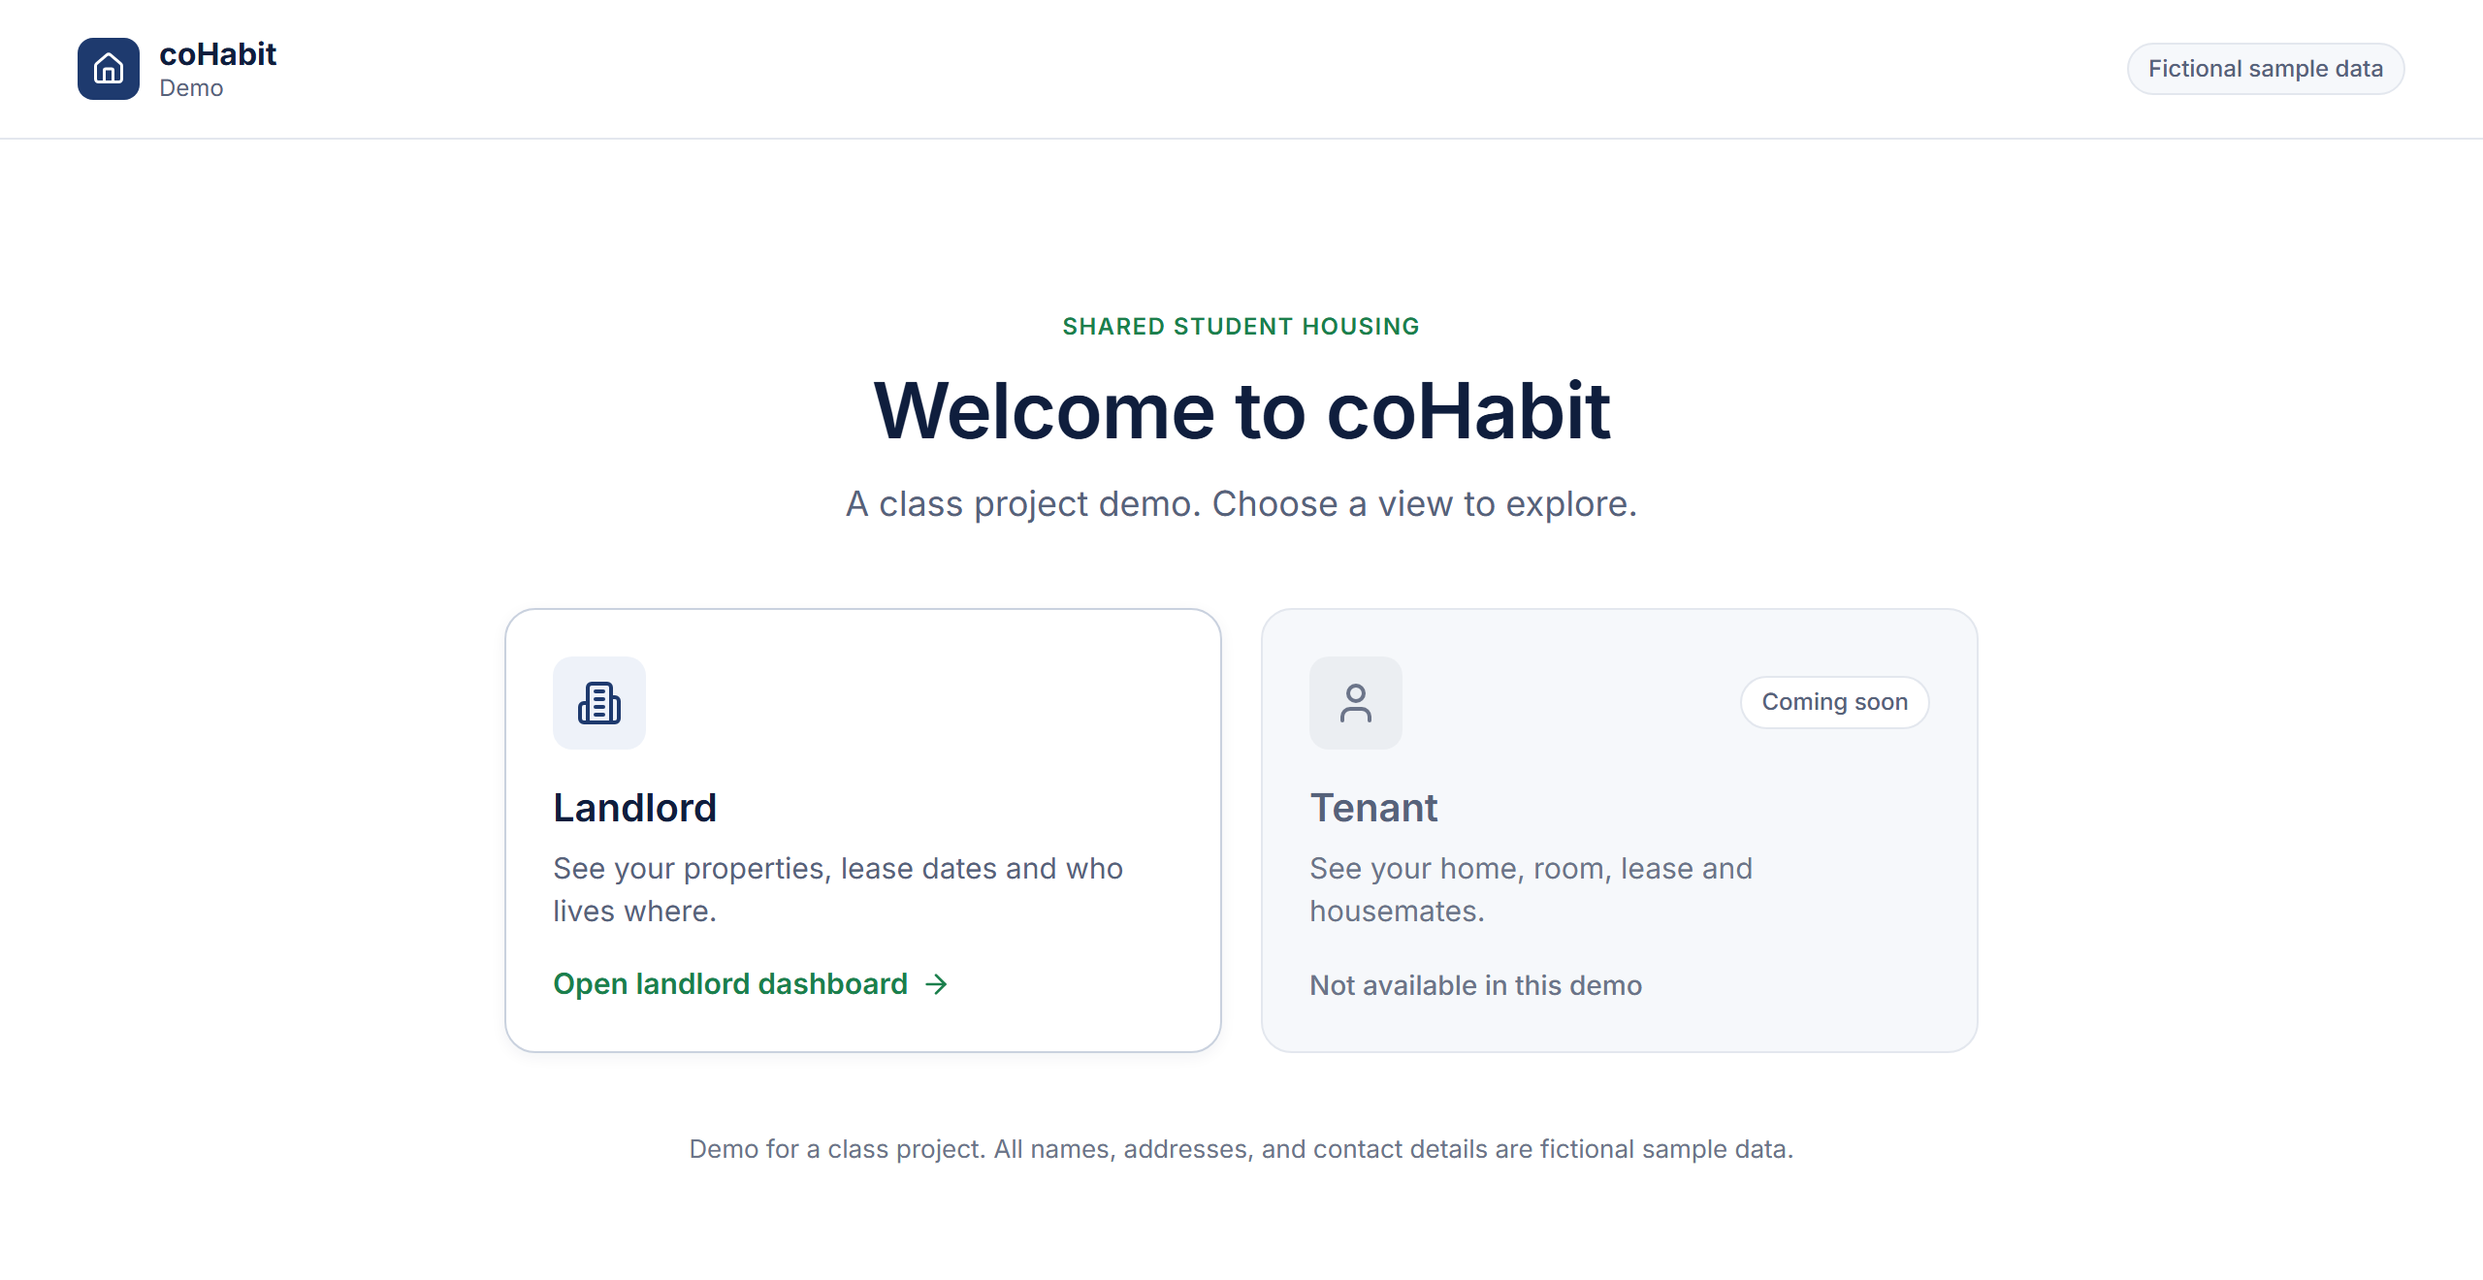
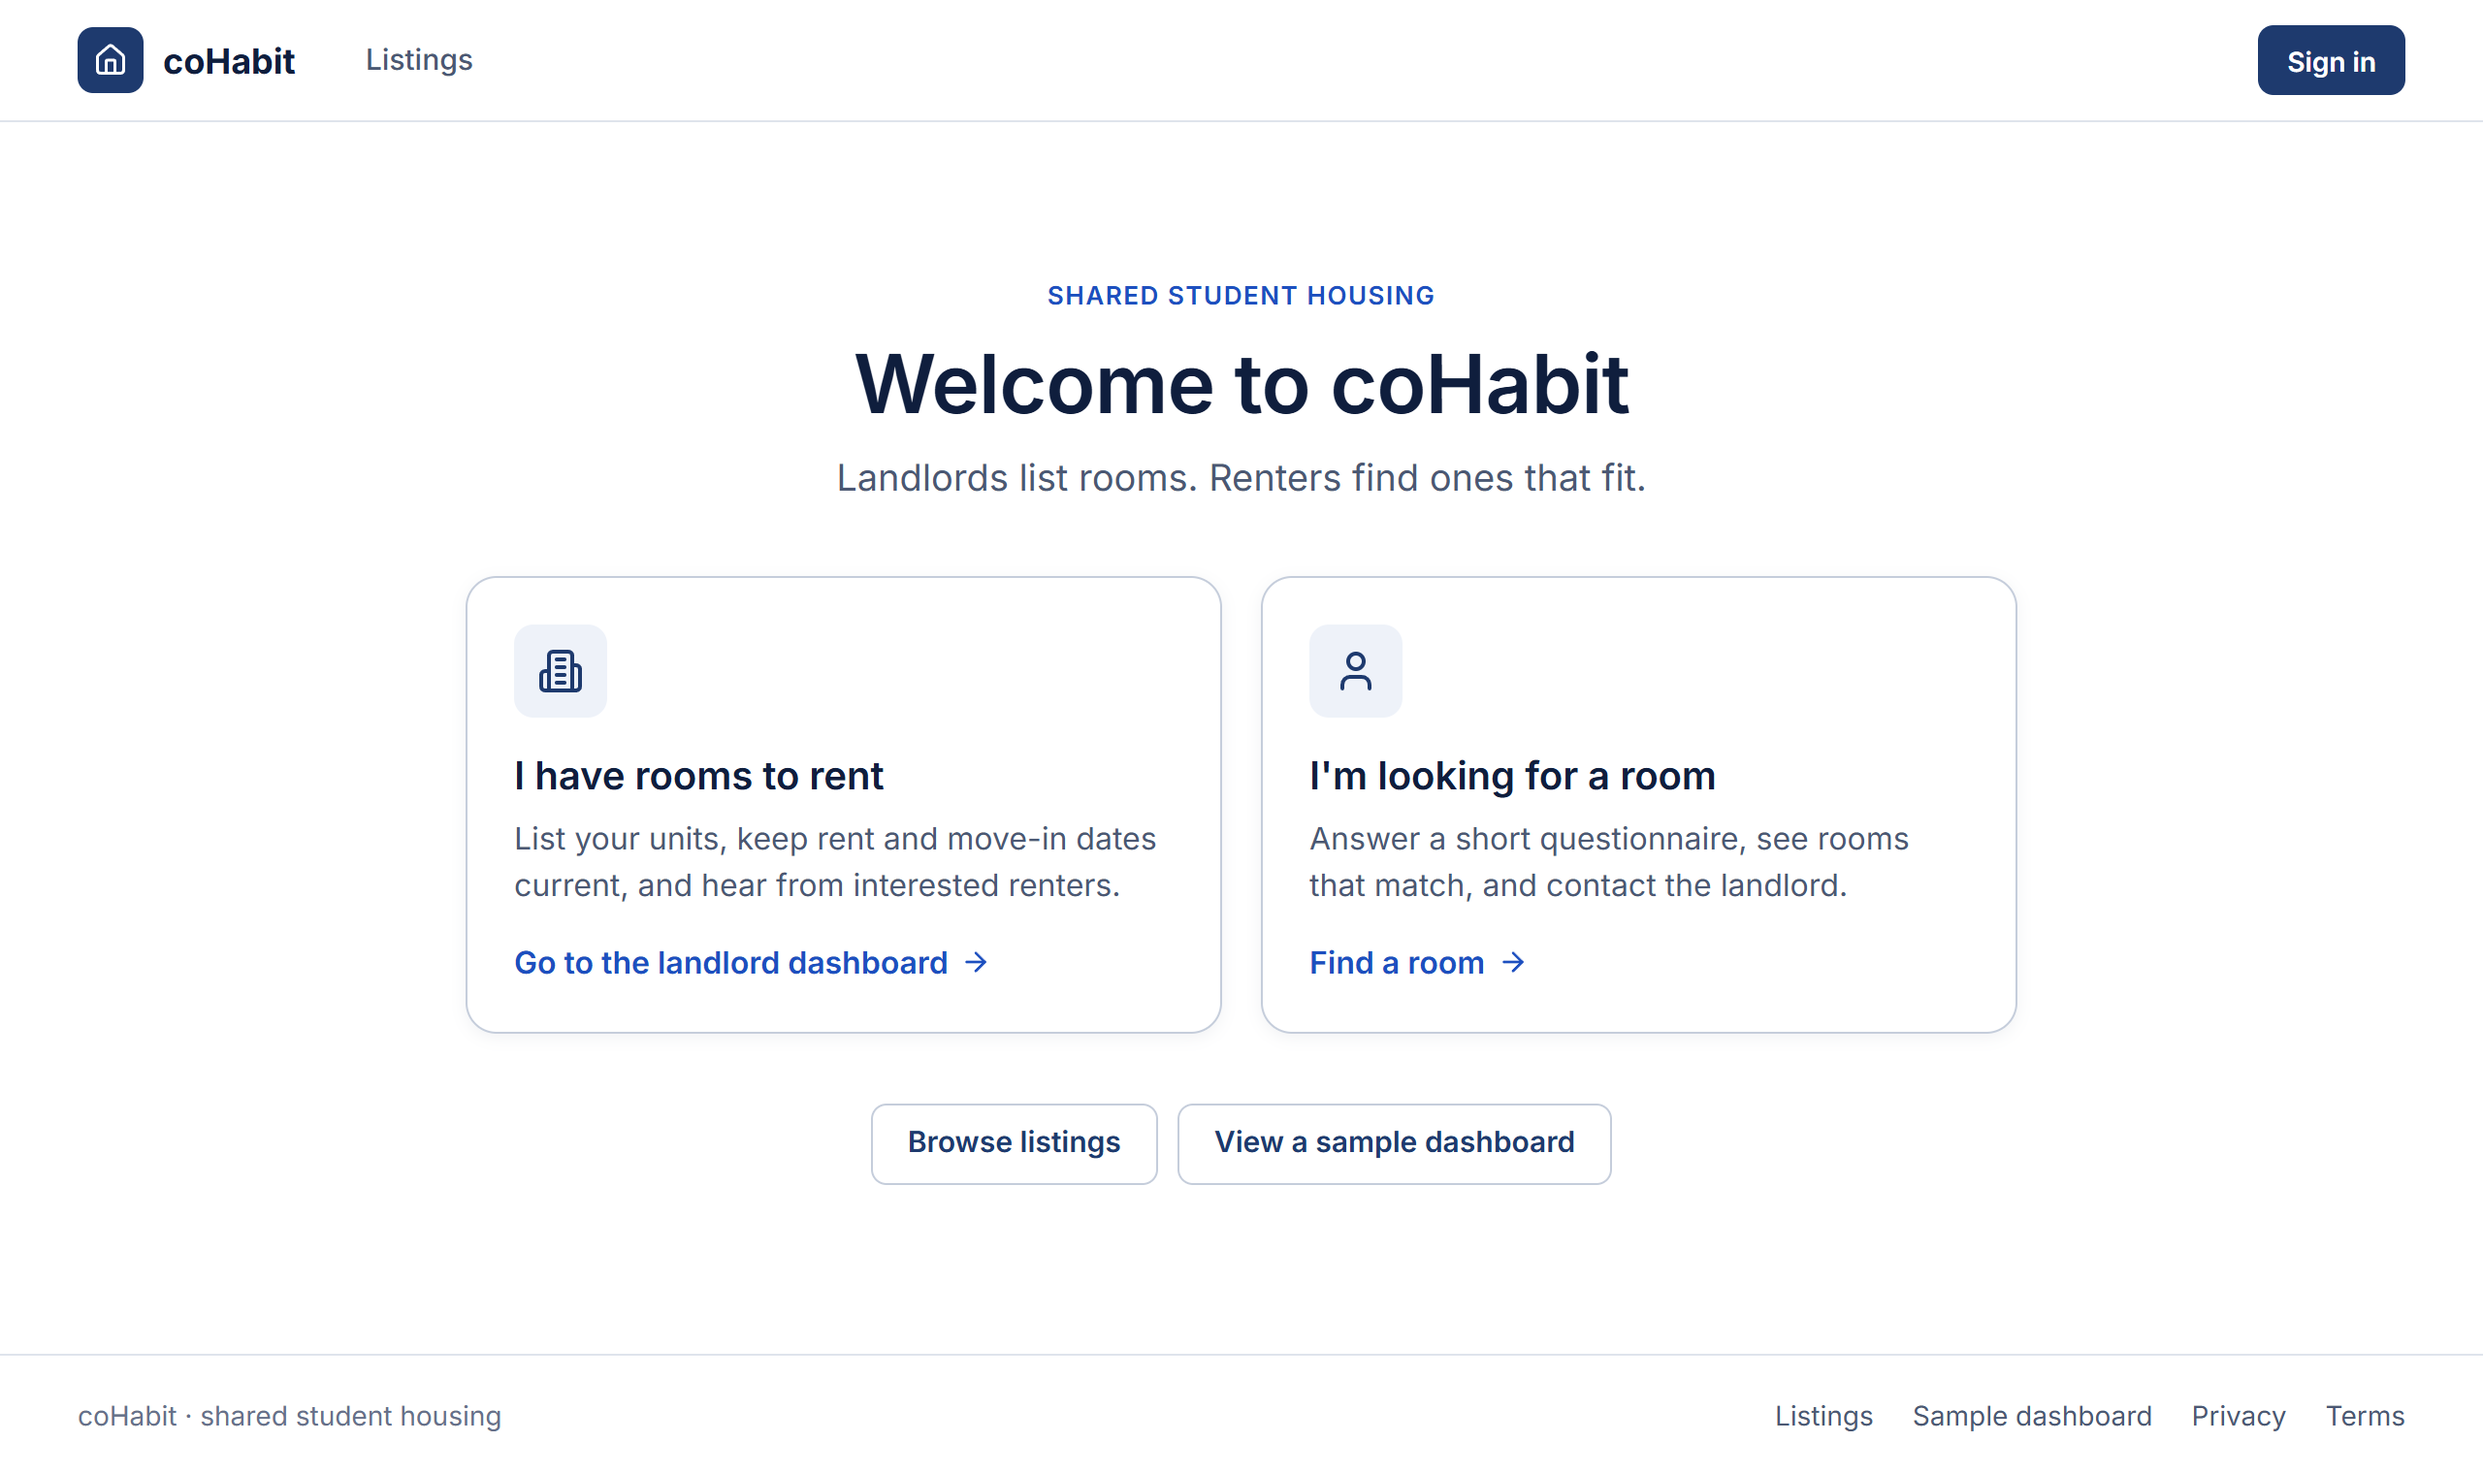
README: new screenshots of the polished interface
Front page, landlord dashboard, unit page with interested renters, a
renter's matching rooms, and the dashboard and unit page on a phone.
Taken on a local copy with made-up accounts; the old sample-dashboard
screenshots are removed.

diff --git a/README.md b/README.md
@@ -2,19 +2,29 @@
 
 ### [👉 Open the live site](https://cohabit-landlord-demo.dolgorsureng.workers.dev)
 
-[![Front page (earlier version) with Landlord and Tenant choices](docs/front.png)](https://cohabit-landlord-demo.dolgorsureng.workers.dev)
+[![Front page with two choices, "I have rooms to rent" and "I'm looking for a room", plus buttons to browse listings and view a sample dashboard](docs/front.png)](https://cohabit-landlord-demo.dolgorsureng.workers.dev)
 
-[![Sample landlord dashboard showing three fictional Waltham properties with tenant counts, lease end dates and status](docs/dashboard.png)](https://cohabit-landlord-demo.dolgorsureng.workers.dev/sample)
+**Landlord dashboard:** summary tiles, one card per unit, and the latest requests from renters.
 
-[![Property and Tenants page for 22 Oak Avenue, Unit 2, showing the lease end date and a table of three fictional tenants with rooms, emails and phone numbers](docs/property.png)](https://cohabit-landlord-demo.dolgorsureng.workers.dev/properties/22-oak-avenue-unit-2)
+![Landlord dashboard: tiles for 3 units, 2 active and 3 requests, three unit cards with rent, rooms and move-in date, and a list of recent requests](docs/dashboard.png)
+
+**Unit page:** the unit's details and the renters interested in it, each with their note and a reply button.
+
+![Unit page for "Sunny 3-bedroom near campus": rent, rooms and move-in date tiles, a description, and two interested renters with their notes](docs/unit.png)
+
+**Renter's matches:** rooms ranked against the renter's questionnaire, with the reasons for each match and an "I'm interested" button.
+
+![Matching rooms for a renter: cards with a match percentage, reasons such as "Within your budget" and "In your area", and a request already sent for one room](docs/renter.png)
 
 <p align="center">
-  <img src="docs/phone-dashboard.png" width="300" alt="The dashboard on a phone: the three property cards stack in one column" />
+  <img src="docs/phone-dashboard.png" width="300" alt="The landlord dashboard on a phone: navigation on a second row, a full-width Add a unit button, tiles and stacked unit cards" />
   &nbsp;&nbsp;
-  <img src="docs/phone.png" width="300" alt="The property page on a phone: the tenant table becomes one card per tenant with name, room, email and phone" />
+  <img src="docs/phone-unit.png" width="300" alt="The unit page on a phone: back link, title, full-width Edit unit button, tiles and description" />
   <br />
-  <em>On a phone, the property cards stack and the tenant table becomes one card per tenant.</em>
+  <em>The same pieces on a phone, stacked in one column.</em>
 </p>
+
+Screenshots were taken on a local copy with made-up accounts. All names, emails and listings shown are fictional.
 
 Landlords list rooms; renters answer a short questionnaire and see rooms that fit. Sign-in is with Google. Data is stored in Cloudflare D1.
 
